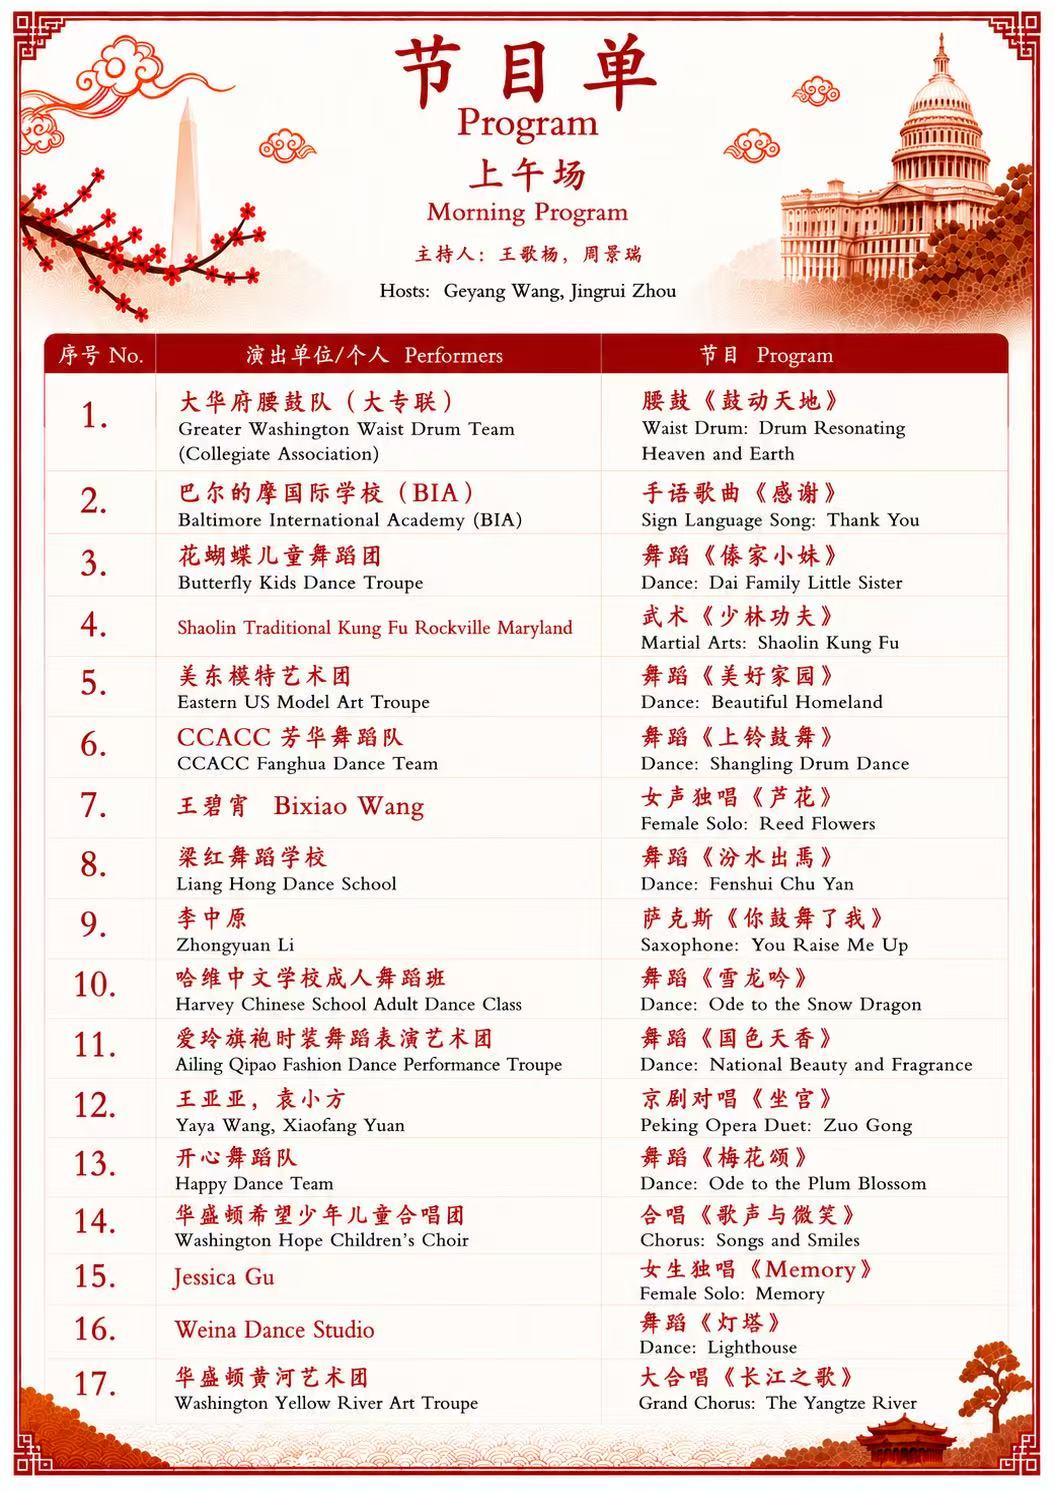
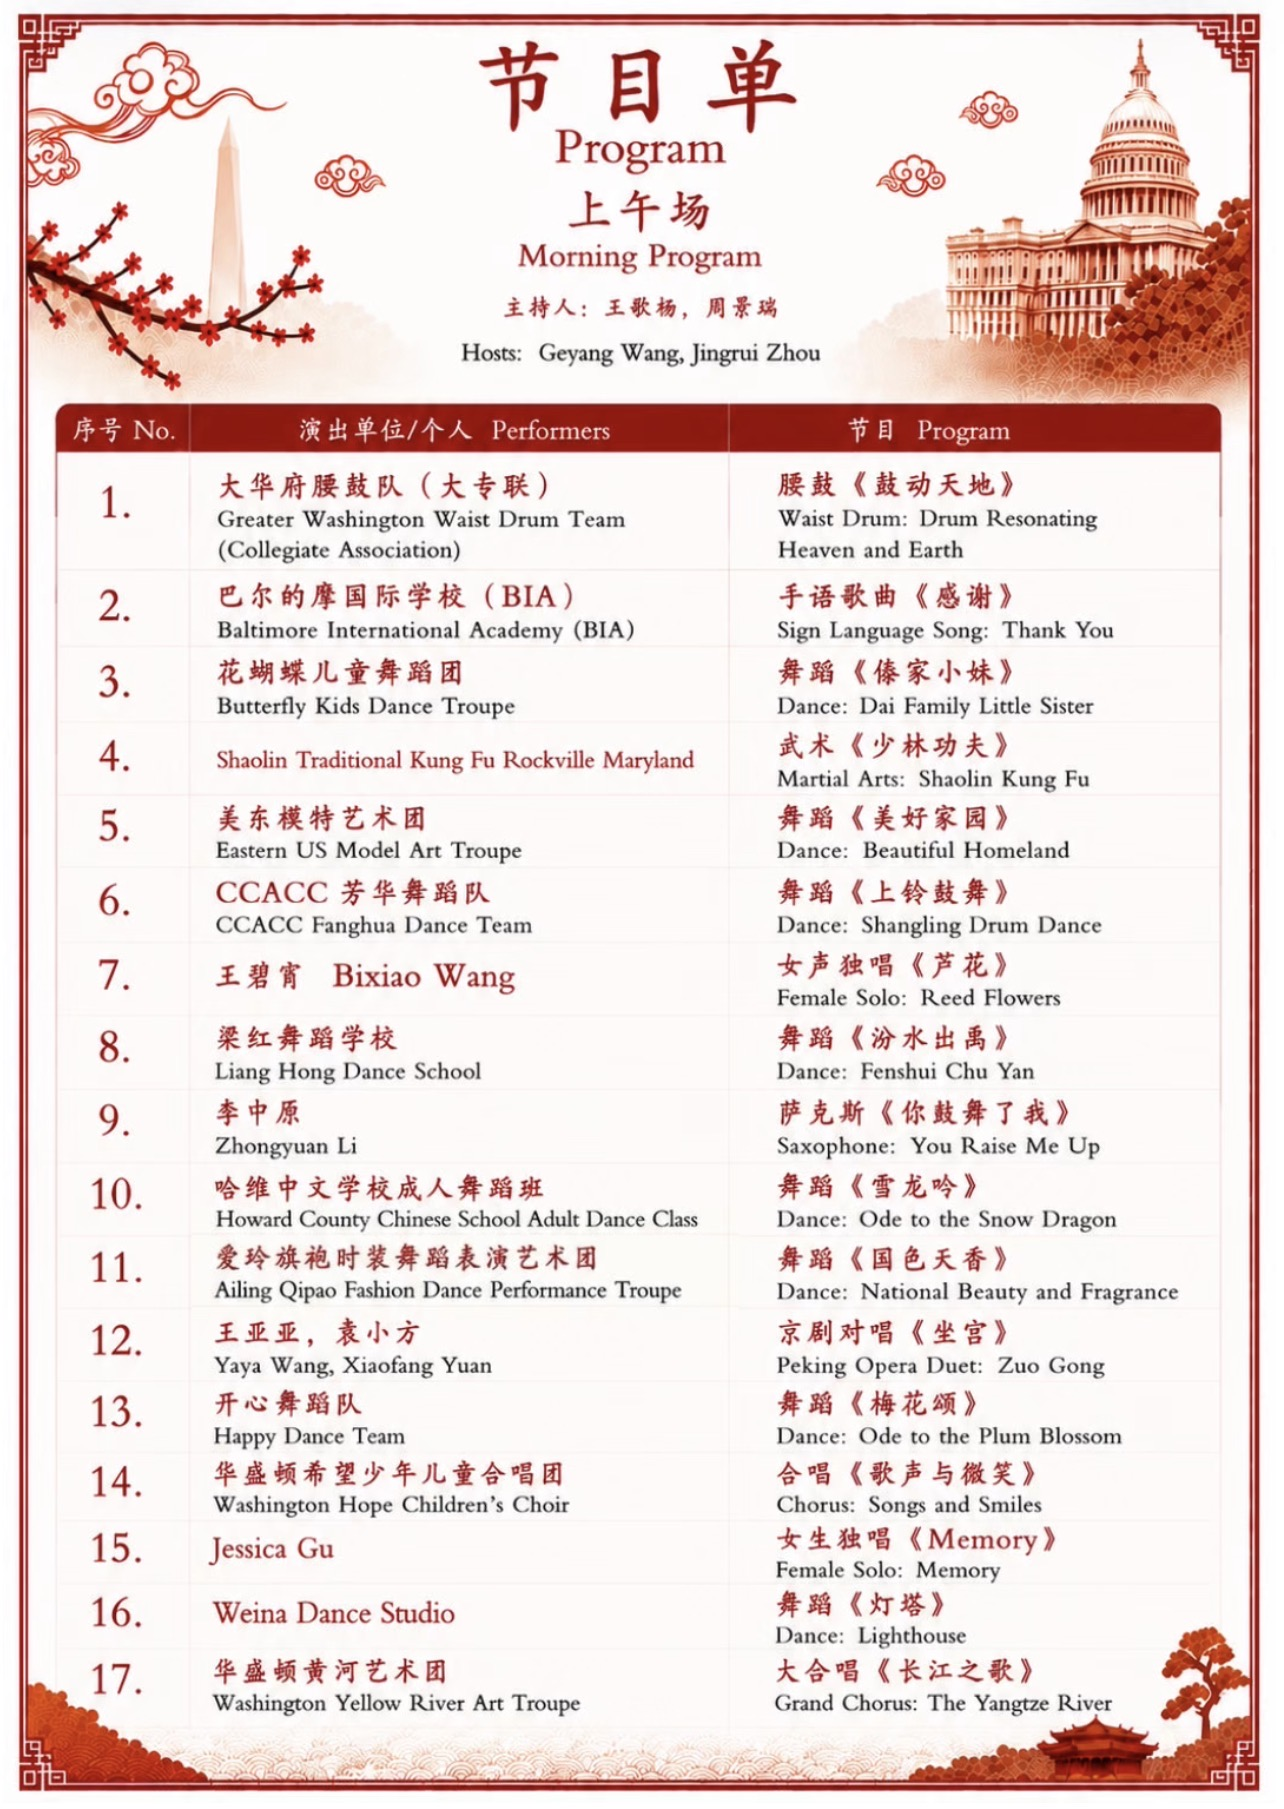
Update index.html (#14)穆建西
* Update index.html

取消 帐篷名称 和 交通指南 dots 的滑动

* Add files via upload

Update 哈维 学校名称

diff --git a/ProgramList/index.html b/ProgramList/index.html
@@ -169,14 +169,6 @@ html, body {
     <div class="slide" id="Slide8">
         <img src="Page5.jpg" alt="第二舞台节目单之二">
     </div>
-
-    <div class="slide" id="Slide9">
-        <iframe src="2026 Washington Chinese Cultural Festival Schematic Layout of Tent and Camera Position2.pdf#toolbar=1&navpanes=1&scrollbar=1&view=FitH" title="帐篷名称"></iframe>
-    </div>
-
-    <div class="slide" id="Slide10">
-        <iframe src="2026中国文化节交通指南.pdf#toolbar=1&navpanes=1&scrollbar=1&view=FitH" title="交通指南"></iframe>
-    </div>      
 </div>
 
 <div class="dots">
@@ -188,8 +180,6 @@ html, body {
     <div class="dot"></div>
     <div class="dot"></div>
     <div class="dot"></div>
-    <div class="dot"></div>
-    <div class="dot"></div>      
 </div>
 
 <script>
